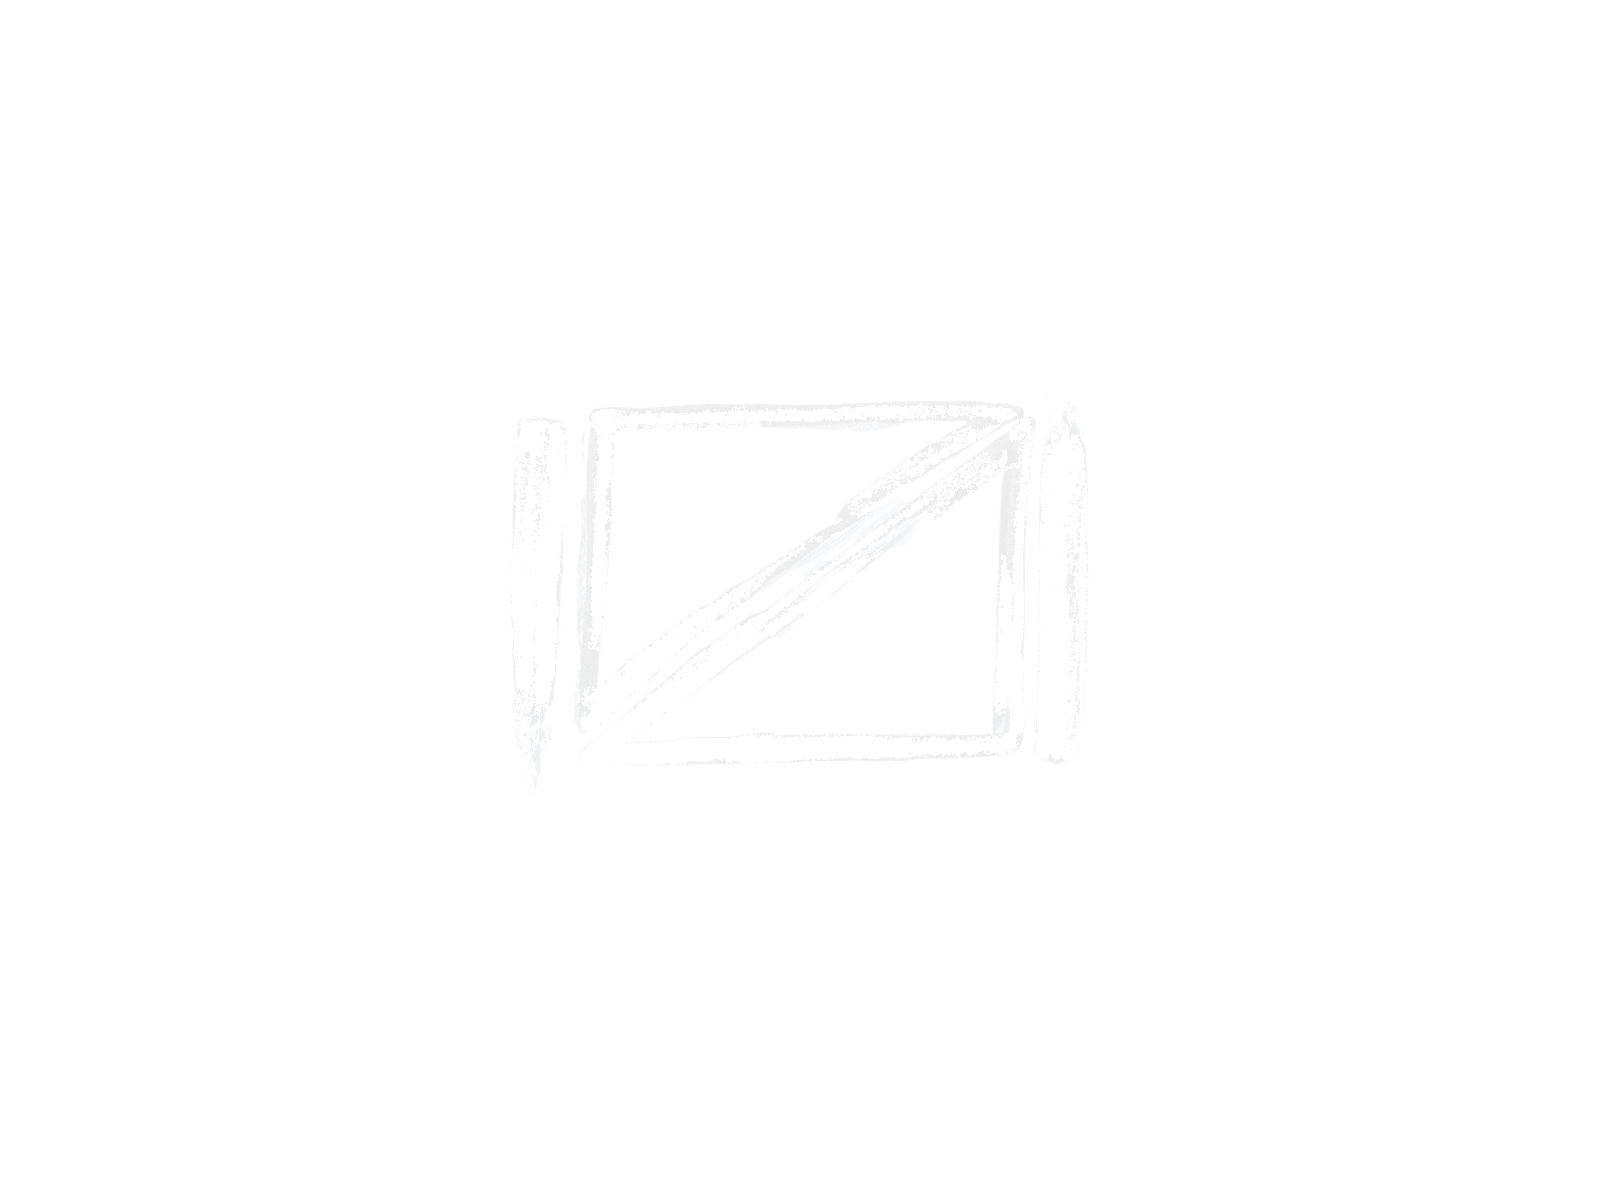
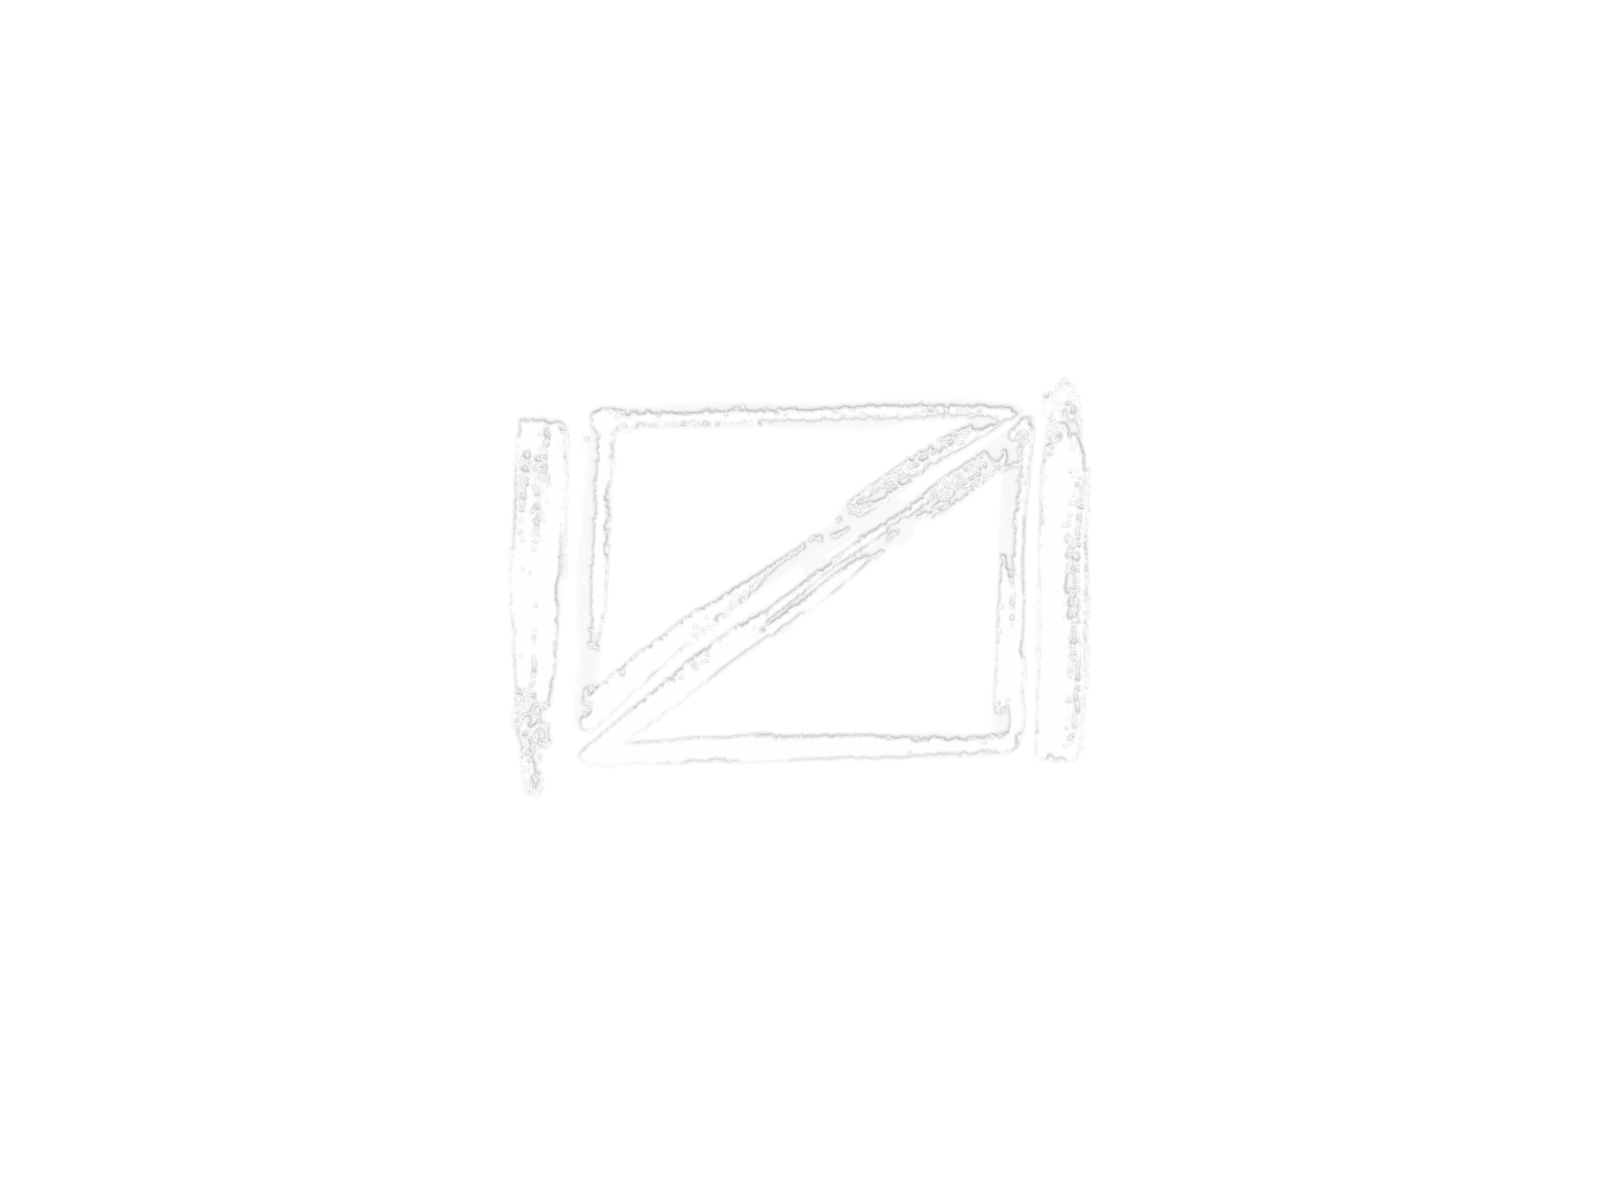
bg

diff --git a/idstyleblack.css b/idstyleblack.css
@@ -6,7 +6,7 @@
 
 body {
 
-    background-image: url('https://rhynep.github.io/id/images/bg_light2.png');
+    background-image: url('https://rhynep.github.io/id/images/bg_light.png');
     background-repeat: no-repeat;
     background-attachment: fixed;
     background-position: center;
